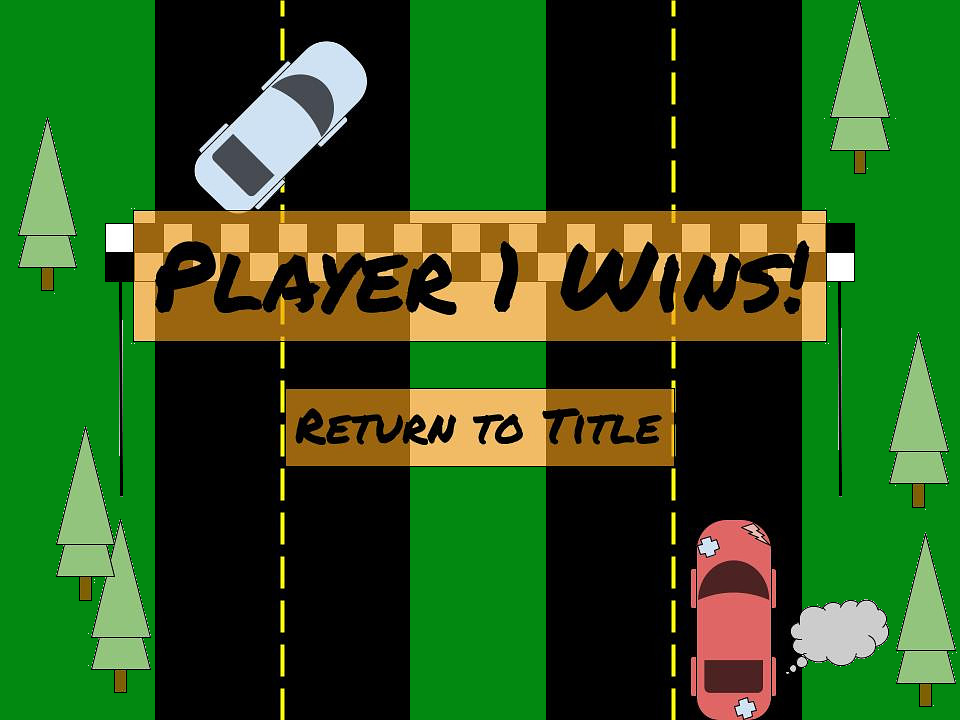
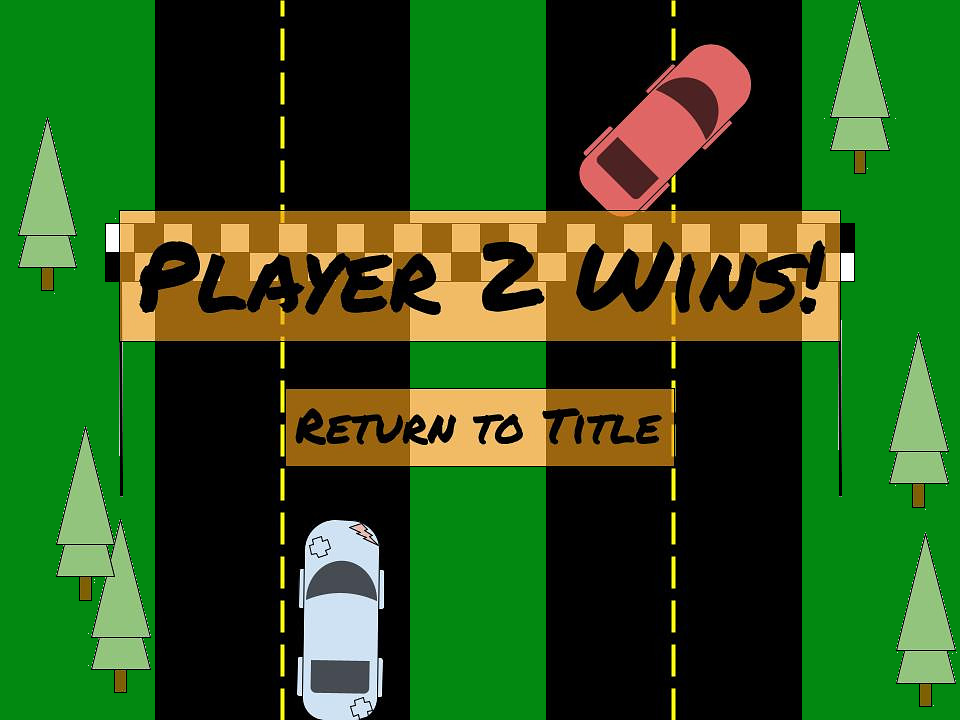
The end screen now pops up when timer hits 0

diff --git a/src/WinScreenPane.java b/src/WinScreenPane.java
@@ -28,8 +28,8 @@ public class WinScreenPane extends GraphicsPane {
 		 * GImage Winner = imageRed...
 		 */
 		GImage blueWinner = new GImage("WinScreenBlue.png", 200, 100);
-		blueWinner.scale(0.85, 0.75);
-		blueWinner.setLocation((mainScreen.getWidth() - blueWinner.getWidth())/ 2, 70);
+		blueWinner.scale(0.85, 0.85);
+		blueWinner.setLocation((mainScreen.getWidth() - blueWinner.getWidth())/ 2, 0);
 		
 		contents.add(blueWinner);
 		mainScreen.add(blueWinner);

diff --git a/src/MainApplication.java b/src/MainApplication.java
@@ -41,6 +41,7 @@ public class MainApplication extends GraphicsProgram {
 		welcomePane = new WelcomePane(this);
 		descriptionPane = new DescriptionPane(this);
 		gameScreenPane = new GameScreenPane(this);
+		winScreenPane = new WinScreenPane(this);
 
 		//TheDefaultPane
 		switchToScreen(welcomePane);

diff --git a/src/RaceTimer.java b/src/RaceTimer.java
@@ -4,7 +4,7 @@ import java.awt.event.ActionListener;
 
 public class RaceTimer {
 	//This is the equivalent to 3 minutes in seconds
-	private int timeLeft = 180;
+	private int timeLeft = 5;
 	private int gameSpeed = 5;
 	private Timer countdownTimer;
 	private GameScreenPane gameScreenPane;

diff --git a/src/GameScreenPane.java b/src/GameScreenPane.java
@@ -99,6 +99,9 @@ public class GameScreenPane extends GraphicsPane {
 	public void updateTimerLabel(String newTime) {
 		timerLabel.setLabel(newTime);
 		timerLabel.sendToFront();
+		if (raceTimer.getTimeLeft() == 0) {
+			mainScreen.switchToWinScreen();
+		}
     }
 
 	
